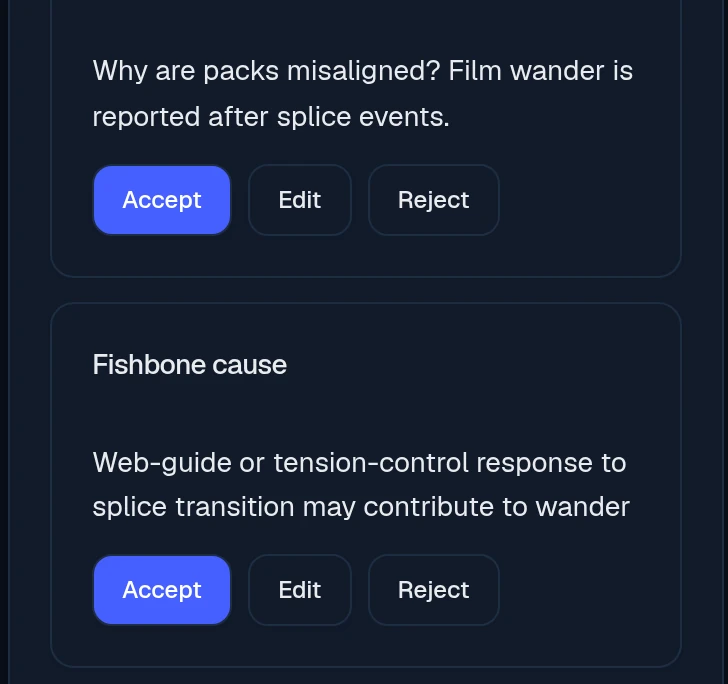
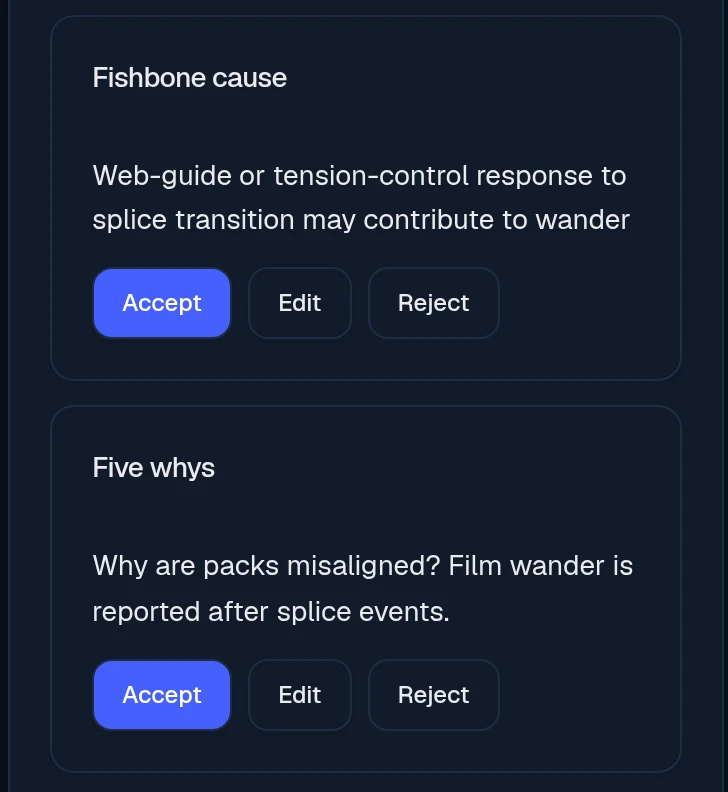
Landing v6: PIXEL r4 leanai-proposals-m dark recapture; action-detail capped ~820px tall

diff --git a/src/components/marketing/v6/v6.css b/src/components/marketing/v6/v6.css
@@ -865,11 +865,13 @@ html.dark .v6-hero-aurora::before {
   display: none;
 }
 @media (min-width: 1024px) {
-  /* ATELIER r2 N3: the modal-only drawer (1312 px at 1.0x) shown at
-     ≤720 CSS px — text ~15 px, well inside the ≤960 px / ≥13 px brief. */
+  /* ATELIER r2 N3: the portrait modal-only drawer (1312×1588) shown well
+     under 960 CSS px and capped at ~820 px tall so it never towers over the
+     copy: 820 × 1312 / 1588 ≈ 677 px wide (text ~14.4 px). */
   .v6-action-desktop {
     display: block;
-    max-width: 720px;
+    width: 100%;
+    max-width: min(677px, calc(820px * 1312 / 1588));
   }
   .v6-action-mobile {
     display: none;
